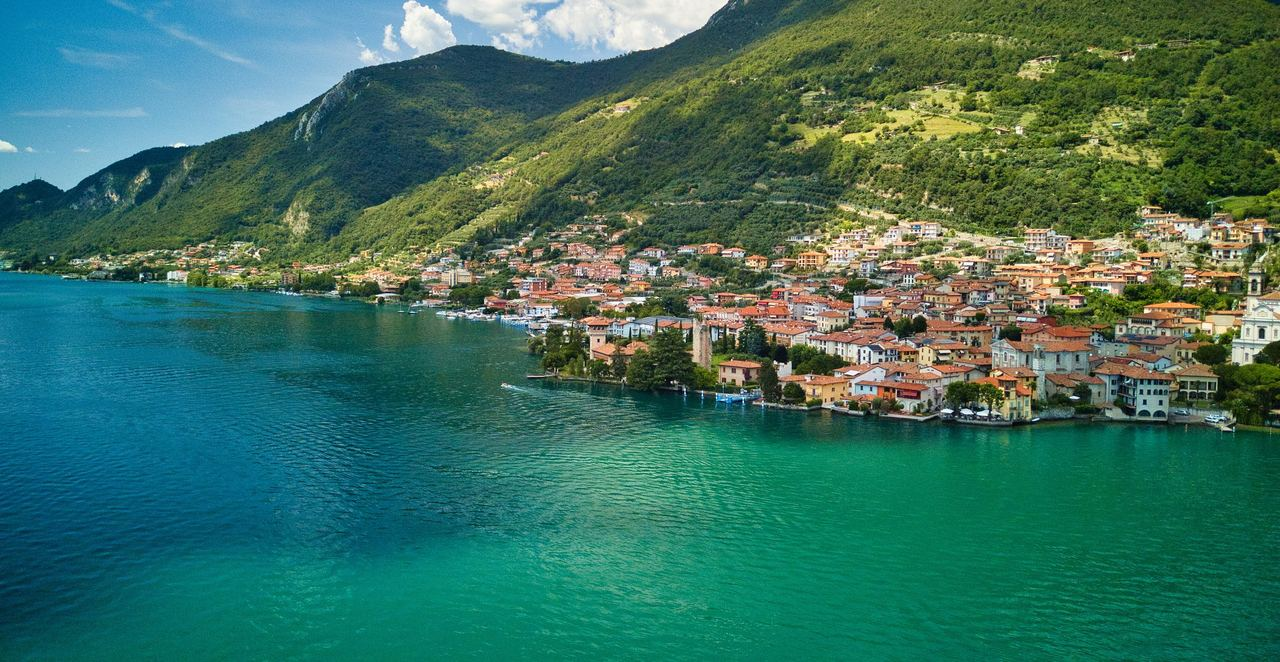
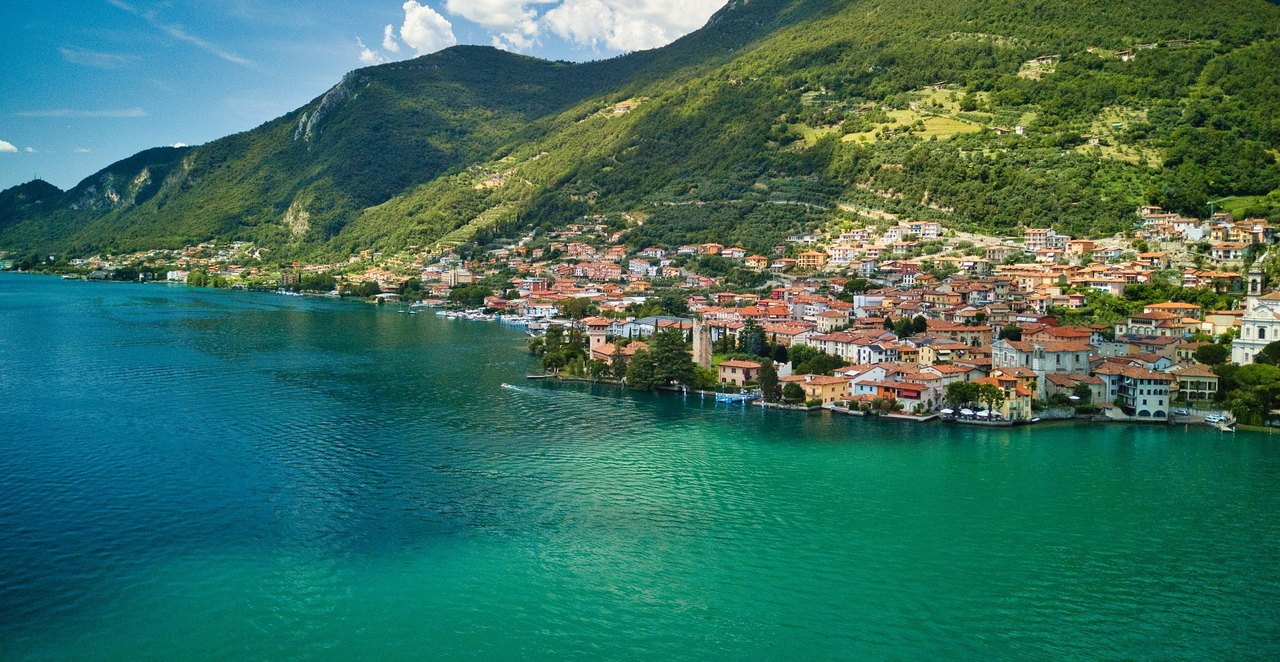
Serve a sharp portrait hero crop on mobile instead of an upscaled 800px landscape.

diff --git a/index.html b/index.html
@@ -75,8 +75,17 @@
       rel="preload"
       as="image"
       type="image/webp"
-      imagesrcset="assets/photos/predore-lago-iseo-800.webp 800w, assets/photos/predore-lago-iseo-1280.webp 1280w, assets/photos/predore-lago-iseo-1920.webp 1920w"
+      href="assets/photos/predore-lago-iseo-mobile.webp"
+      media="(max-width: 720px)"
+      fetchpriority="high"
+    />
+    <link
+      rel="preload"
+      as="image"
+      type="image/webp"
+      imagesrcset="assets/photos/predore-lago-iseo-1280.webp 1280w, assets/photos/predore-lago-iseo-1920.webp 1920w, assets/photos/predore-lago-iseo-2400.webp 2400w"
       imagesizes="100vw"
+      media="(min-width: 721px)"
       fetchpriority="high"
     />
     <!-- Google Analytics stub only; gtag/js loads after cookie accept -->
@@ -193,13 +202,23 @@
         <div class="hero-media" data-hero-media>
           <picture>
             <source
+              media="(max-width: 720px)"
               type="image/webp"
-              srcset="assets/photos/predore-lago-iseo-800.webp 800w, assets/photos/predore-lago-iseo-1280.webp 1280w, assets/photos/predore-lago-iseo-1920.webp 1920w"
+              srcset="assets/photos/predore-lago-iseo-mobile.webp"
+            />
+            <source
+              media="(max-width: 720px)"
+              type="image/jpeg"
+              srcset="assets/photos/predore-lago-iseo-mobile.jpg"
+            />
+            <source
+              type="image/webp"
+              srcset="assets/photos/predore-lago-iseo-1280.webp 1280w, assets/photos/predore-lago-iseo-1920.webp 1920w, assets/photos/predore-lago-iseo-2400.webp 2400w"
               sizes="100vw"
             />
             <img
               src="assets/photos/predore-lago-iseo.jpg"
-              srcset="assets/photos/predore-lago-iseo-800.jpg 800w, assets/photos/predore-lago-iseo-1280.jpg 1280w, assets/photos/predore-lago-iseo-1920.jpg 1920w"
+              srcset="assets/photos/predore-lago-iseo-1280.jpg 1280w, assets/photos/predore-lago-iseo-1920.jpg 1920w, assets/photos/predore-lago-iseo-2400.jpg 2400w"
               sizes="100vw"
               data-i18n-alt="hero.alt"
               alt="Predore sul Lago d'Iseo, sponda bergamasca del Sebino"

diff --git a/css/styles.css b/css/styles.css
@@ -547,6 +547,8 @@ html.js .logo-img-light {
   .hero-media img {
     transform: none;
     animation: none;
+    /* Mobile uses a portrait crop; keep focus near the lake/shore */
+    object-position: center 42%;
   }
 }
 
